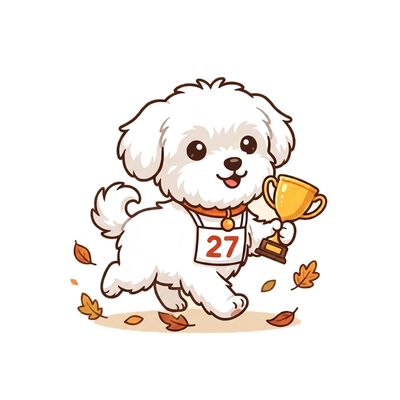
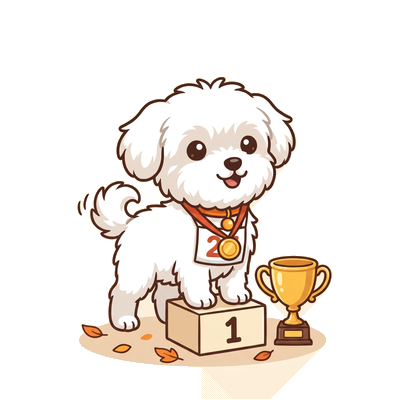
운동회 뚜비 메인 스킨 교체

Changed region(s): [[0.18, 0.39, 0.84, 1.0], [0.72, 0.3, 0.75, 0.39], [0.6, 0.21, 0.63, 0.24]]

diff --git a/app.html b/app.html
@@ -1083,7 +1083,7 @@ input,textarea{font-family:inherit;border:none;outline:none}
     <div class="dlg-btns"><button class="dlg-cancel" onclick="closeBonusEdit()">취소</button><button class="dlg-ok" onclick="saveBonusEdit()">저장</button></div>
   </div>
 </div>
-<div id="verStamp" style="position:fixed;top:3px;right:4px;font-size:9px;color:rgba(0,0,0,.28);z-index:300;pointer-events:none;font-weight:700">v35</div>
+<div id="verStamp" style="position:fixed;top:3px;right:4px;font-size:9px;color:rgba(0,0,0,.28);z-index:300;pointer-events:none;font-weight:700">v36</div>
 <canvas id="captureCanvas" style="display:none"></canvas>
 
 <script type="module">
@@ -2784,6 +2784,8 @@ function weekDates(y, w){
   return out;
 }
 const WEEK_CARD_REQUIRED_ALL_PINGS = 3;
+// 메인 배경 스킨의 파일 교체도 즉시 반영되도록 카드 원화 갱신 단위로 함께 올린다.
+const ACTIVE_DUBI_SKIN_REV = '20260929-sportsday';
 function weekAllPingCount(allData, y, w){ return weekDates(y,w).reduce((count,date)=>{ const dp=allData[date]; return count + (dp&&Object.keys(dp).length>=4 ? 1 : 0); },0); }
 function weekCardTarget(y, w){ return Math.min(WEEK_CARD_REQUIRED_ALL_PINGS, weekDates(y,w).length); }
 function weekAllPing(allData, y, w){ const target=weekCardTarget(y,w); return target>0 && weekAllPingCount(allData,y,w)>=target; }
@@ -2819,7 +2821,7 @@ function renderActiveDubiCard(){
   if(!active){ el.style.display='none'; feed.classList.remove('has-dubi-skin'); feed.style.removeProperty('--active-dubi-skin'); return; }
   // 수집용 원화는 그대로 보존하고, 모든 해금 카드는 홈에서만 같은 이름의 투명 스킨을 사용한다.
   const skinSrc = active.img.replace(/\.png$/i, '-skin.png');
-  feed.style.setProperty('--active-dubi-skin', `url("${skinSrc}")`);
+  feed.style.setProperty('--active-dubi-skin', `url("${skinSrc}?rev=${ACTIVE_DUBI_SKIN_REV}")`);
   feed.classList.add('has-dubi-skin');
   el.setAttribute('aria-label', `${active.name} 카드 자세히 보기`);
   el.style.display='block';

diff --git a/sw.js b/sw.js
@@ -1,4 +1,4 @@
-const CACHE_NAME = 'ping-v35';
+const CACHE_NAME = 'ping-v36';
 const ASSETS = [
   './',
   './index.html',
